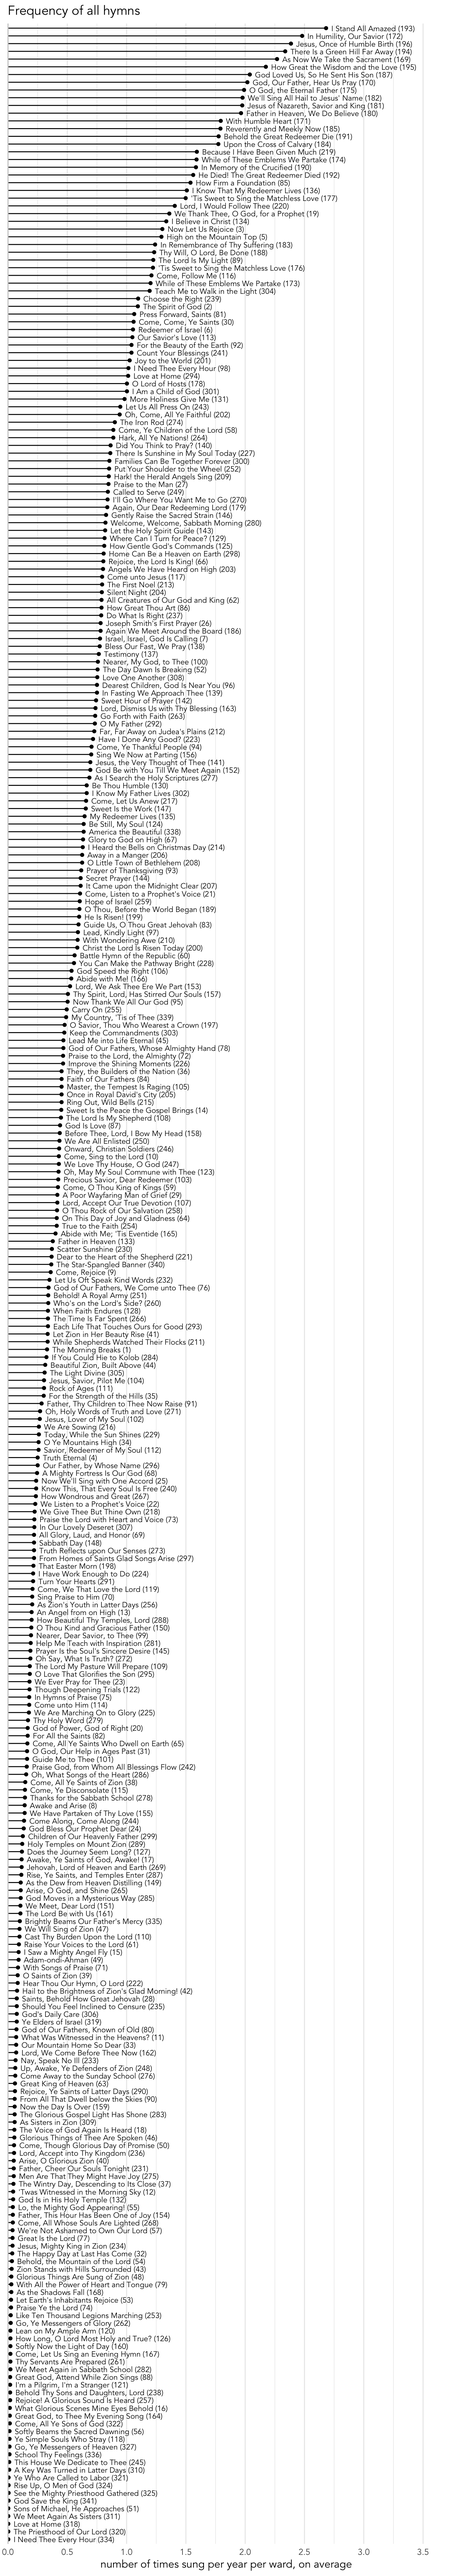
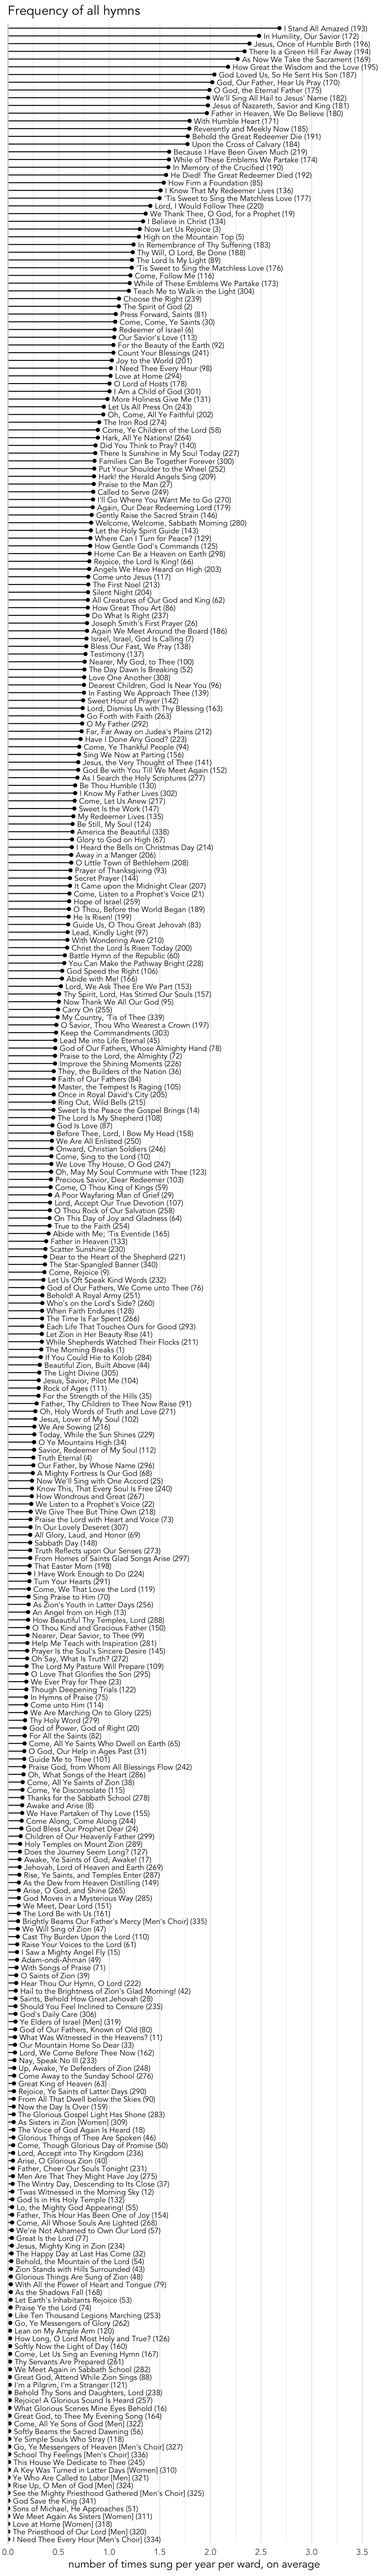
added women, men, and men's chorus to hymn titles

Changed region(s): [[0.0, 0.0, 0.9688, 1.0]]

diff --git a/docs/overview.html b/docs/overview.html
@@ -78,12 +78,12 @@ gtag('config', 'G-SG4E42NZ2F', { 'anonymize_ip': true});
 <meta property="og:image" content="https://hymnstats.joeystanley.com/overview_files/figure-html/unnamed-chunk-3-1.png">
 <meta property="og:site-name" content="LDS Hymn Stats">
 <meta property="og:image:height" content="7680">
-<meta property="og:image:width" content="1344">
+<meta property="og:image:width" content="1152">
 <meta name="twitter:title" content="LDS Hymn Stats - Overview">
 <meta name="twitter:description" content="">
 <meta name="twitter:image" content="https://hymnstats.joeystanley.com/overview_files/figure-html/unnamed-chunk-3-1.png">
 <meta name="twitter:image-height" content="7680">
-<meta name="twitter:image-width" content="1344">
+<meta name="twitter:image-width" content="1152">
 <meta name="twitter:card" content="summary_large_image">
 </head>
 
@@ -195,6 +195,12 @@ gtag('config', 'G-SG4E42NZ2F', { 'anonymize_ip': true});
     </div>
   </div>
   
+    <div>
+    <div class="quarto-title-meta-heading">Modified</div>
+    <div class="quarto-title-meta-contents">
+      <p class="date-modified">October 29, 2023</p>
+    </div>
+  </div>
     
   </div>
   
@@ -214,7 +220,7 @@ gtag('config', 'G-SG4E42NZ2F', { 'anonymize_ip': true});
 <colgroup>
 <col style="width: 4%">
 <col style="width: 3%">
-<col style="width: 38%">
+<col style="width: 39%">
 <col style="width: 8%">
 <col style="width: 10%">
 <col style="width: 11%">
@@ -2687,7 +2693,7 @@ gtag('config', 'G-SG4E42NZ2F', { 'anonymize_ip': true});
 <tr class="even">
 <td style="text-align: right;">246</td>
 <td style="text-align: right;">335</td>
-<td style="text-align: left;">Brightly Beams Our Father’s Mercy</td>
+<td style="text-align: left;">Brightly Beams Our Father’s Mercy [Men’s Choir]</td>
 <td style="text-align: right;">39</td>
 <td style="text-align: right;">0.100</td>
 <td style="text-align: right;">482.308</td>
@@ -2817,7 +2823,7 @@ gtag('config', 'G-SG4E42NZ2F', { 'anonymize_ip': true});
 <tr class="odd">
 <td style="text-align: right;">256</td>
 <td style="text-align: right;">319</td>
-<td style="text-align: left;">Ye Elders of Israel</td>
+<td style="text-align: left;">Ye Elders of Israel [Men]</td>
 <td style="text-align: right;">29</td>
 <td style="text-align: right;">0.074</td>
 <td style="text-align: right;">648.621</td>
@@ -2947,7 +2953,7 @@ gtag('config', 'G-SG4E42NZ2F', { 'anonymize_ip': true});
 <tr class="even">
 <td style="text-align: right;">269</td>
 <td style="text-align: right;">309</td>
-<td style="text-align: left;">As Sisters in Zion</td>
+<td style="text-align: left;">As Sisters in Zion [Women]</td>
 <td style="text-align: right;">22</td>
 <td style="text-align: right;">0.056</td>
 <td style="text-align: right;">855.000</td>
@@ -3337,7 +3343,7 @@ gtag('config', 'G-SG4E42NZ2F', { 'anonymize_ip': true});
 <tr class="odd">
 <td style="text-align: right;">309</td>
 <td style="text-align: right;">322</td>
-<td style="text-align: left;">Come, All Ye Sons of God</td>
+<td style="text-align: left;">Come, All Ye Sons of God [Men]</td>
 <td style="text-align: right;">6</td>
 <td style="text-align: right;">0.015</td>
 <td style="text-align: right;">3135.000</td>
@@ -3367,7 +3373,7 @@ gtag('config', 'G-SG4E42NZ2F', { 'anonymize_ip': true});
 <tr class="even">
 <td style="text-align: right;">312</td>
 <td style="text-align: right;">327</td>
-<td style="text-align: left;">Go, Ye Messengers of Heaven</td>
+<td style="text-align: left;">Go, Ye Messengers of Heaven [Men’s Choir]</td>
 <td style="text-align: right;">5</td>
 <td style="text-align: right;">0.013</td>
 <td style="text-align: right;">3762.000</td>
@@ -3377,7 +3383,7 @@ gtag('config', 'G-SG4E42NZ2F', { 'anonymize_ip': true});
 <tr class="odd">
 <td style="text-align: right;">312</td>
 <td style="text-align: right;">336</td>
-<td style="text-align: left;">School Thy Feelings</td>
+<td style="text-align: left;">School Thy Feelings [Men’s Choir]</td>
 <td style="text-align: right;">5</td>
 <td style="text-align: right;">0.013</td>
 <td style="text-align: right;">3762.000</td>
@@ -3397,7 +3403,7 @@ gtag('config', 'G-SG4E42NZ2F', { 'anonymize_ip': true});
 <tr class="odd">
 <td style="text-align: right;">316</td>
 <td style="text-align: right;">310</td>
-<td style="text-align: left;">A Key Was Turned in Latter Days</td>
+<td style="text-align: left;">A Key Was Turned in Latter Days [Women]</td>
 <td style="text-align: right;">4</td>
 <td style="text-align: right;">0.010</td>
 <td style="text-align: right;">4702.500</td>
@@ -3407,7 +3413,7 @@ gtag('config', 'G-SG4E42NZ2F', { 'anonymize_ip': true});
 <tr class="even">
 <td style="text-align: right;">318</td>
 <td style="text-align: right;">321</td>
-<td style="text-align: left;">Ye Who Are Called to Labor</td>
+<td style="text-align: left;">Ye Who Are Called to Labor [Men]</td>
 <td style="text-align: right;">2</td>
 <td style="text-align: right;">0.005</td>
 <td style="text-align: right;">9405.000</td>
@@ -3417,7 +3423,7 @@ gtag('config', 'G-SG4E42NZ2F', { 'anonymize_ip': true});
 <tr class="odd">
 <td style="text-align: right;">318</td>
 <td style="text-align: right;">324</td>
-<td style="text-align: left;">Rise Up, O Men of God</td>
+<td style="text-align: left;">Rise Up, O Men of God [Men]</td>
 <td style="text-align: right;">2</td>
 <td style="text-align: right;">0.005</td>
 <td style="text-align: right;">9405.000</td>
@@ -3427,7 +3433,7 @@ gtag('config', 'G-SG4E42NZ2F', { 'anonymize_ip': true});
 <tr class="even">
 <td style="text-align: right;">318</td>
 <td style="text-align: right;">325</td>
-<td style="text-align: left;">See the Mighty Priesthood Gathered</td>
+<td style="text-align: left;">See the Mighty Priesthood Gathered [Men’s Choir]</td>
 <td style="text-align: right;">2</td>
 <td style="text-align: right;">0.005</td>
 <td style="text-align: right;">9405.000</td>
@@ -3457,7 +3463,7 @@ gtag('config', 'G-SG4E42NZ2F', { 'anonymize_ip': true});
 <tr class="odd">
 <td style="text-align: right;">322</td>
 <td style="text-align: right;">311</td>
-<td style="text-align: left;">We Meet Again As Sisters</td>
+<td style="text-align: left;">We Meet Again As Sisters [Women]</td>
 <td style="text-align: right;">1</td>
 <td style="text-align: right;">0.003</td>
 <td style="text-align: right;">18810.000</td>
@@ -3467,7 +3473,7 @@ gtag('config', 'G-SG4E42NZ2F', { 'anonymize_ip': true});
 <tr class="even">
 <td style="text-align: right;">322</td>
 <td style="text-align: right;">318</td>
-<td style="text-align: left;">Love at Home</td>
+<td style="text-align: left;">Love at Home [Women]</td>
 <td style="text-align: right;">1</td>
 <td style="text-align: right;">0.003</td>
 <td style="text-align: right;">18810.000</td>
@@ -3477,7 +3483,7 @@ gtag('config', 'G-SG4E42NZ2F', { 'anonymize_ip': true});
 <tr class="odd">
 <td style="text-align: right;">322</td>
 <td style="text-align: right;">320</td>
-<td style="text-align: left;">The Priesthood of Our Lord</td>
+<td style="text-align: left;">The Priesthood of Our Lord [Men]</td>
 <td style="text-align: right;">1</td>
 <td style="text-align: right;">0.003</td>
 <td style="text-align: right;">18810.000</td>
@@ -3487,7 +3493,7 @@ gtag('config', 'G-SG4E42NZ2F', { 'anonymize_ip': true});
 <tr class="even">
 <td style="text-align: right;">322</td>
 <td style="text-align: right;">334</td>
-<td style="text-align: left;">I Need Thee Every Hour</td>
+<td style="text-align: left;">I Need Thee Every Hour [Men’s Choir]</td>
 <td style="text-align: right;">1</td>
 <td style="text-align: right;">0.003</td>
 <td style="text-align: right;">18810.000</td>
@@ -3497,7 +3503,7 @@ gtag('config', 'G-SG4E42NZ2F', { 'anonymize_ip': true});
 <tr class="odd">
 <td style="text-align: right;">327</td>
 <td style="text-align: right;">312</td>
-<td style="text-align: left;">We Ever Pray for Thee</td>
+<td style="text-align: left;">We Ever Pray for Thee [Women]</td>
 <td style="text-align: right;">NA</td>
 <td style="text-align: right;">NA</td>
 <td style="text-align: right;">NA</td>
@@ -3507,7 +3513,7 @@ gtag('config', 'G-SG4E42NZ2F', { 'anonymize_ip': true});
 <tr class="even">
 <td style="text-align: right;">327</td>
 <td style="text-align: right;">313</td>
-<td style="text-align: left;">God Is Love</td>
+<td style="text-align: left;">God Is Love [Women]</td>
 <td style="text-align: right;">NA</td>
 <td style="text-align: right;">NA</td>
 <td style="text-align: right;">NA</td>
@@ -3517,7 +3523,7 @@ gtag('config', 'G-SG4E42NZ2F', { 'anonymize_ip': true});
 <tr class="odd">
 <td style="text-align: right;">327</td>
 <td style="text-align: right;">314</td>
-<td style="text-align: left;">How Gentle God’s Commands</td>
+<td style="text-align: left;">How Gentle God’s Commands [Women]</td>
 <td style="text-align: right;">NA</td>
 <td style="text-align: right;">NA</td>
 <td style="text-align: right;">NA</td>
@@ -3527,7 +3533,7 @@ gtag('config', 'G-SG4E42NZ2F', { 'anonymize_ip': true});
 <tr class="even">
 <td style="text-align: right;">327</td>
 <td style="text-align: right;">315</td>
-<td style="text-align: left;">Jesus, the Very Thought of Thee</td>
+<td style="text-align: left;">Jesus, the Very Thought of Thee [Women]</td>
 <td style="text-align: right;">NA</td>
 <td style="text-align: right;">NA</td>
 <td style="text-align: right;">NA</td>
@@ -3537,7 +3543,7 @@ gtag('config', 'G-SG4E42NZ2F', { 'anonymize_ip': true});
 <tr class="odd">
 <td style="text-align: right;">327</td>
 <td style="text-align: right;">316</td>
-<td style="text-align: left;">The Lord Is My Shepherd</td>
+<td style="text-align: left;">The Lord Is My Shepherd [Women]</td>
 <td style="text-align: right;">NA</td>
 <td style="text-align: right;">NA</td>
 <td style="text-align: right;">NA</td>
@@ -3547,7 +3553,7 @@ gtag('config', 'G-SG4E42NZ2F', { 'anonymize_ip': true});
 <tr class="even">
 <td style="text-align: right;">327</td>
 <td style="text-align: right;">317</td>
-<td style="text-align: left;">Sweet Is the Work</td>
+<td style="text-align: left;">Sweet Is the Work [Women]</td>
 <td style="text-align: right;">NA</td>
 <td style="text-align: right;">NA</td>
 <td style="text-align: right;">NA</td>
@@ -3557,7 +3563,7 @@ gtag('config', 'G-SG4E42NZ2F', { 'anonymize_ip': true});
 <tr class="odd">
 <td style="text-align: right;">327</td>
 <td style="text-align: right;">323</td>
-<td style="text-align: left;">Rise Up, O Men of God</td>
+<td style="text-align: left;">Rise Up, O Men of God [Men’s Choir]</td>
 <td style="text-align: right;">NA</td>
 <td style="text-align: right;">NA</td>
 <td style="text-align: right;">NA</td>
@@ -3567,7 +3573,7 @@ gtag('config', 'G-SG4E42NZ2F', { 'anonymize_ip': true});
 <tr class="even">
 <td style="text-align: right;">327</td>
 <td style="text-align: right;">326</td>
-<td style="text-align: left;">Come, Come, Ye Saints</td>
+<td style="text-align: left;">Come, Come, Ye Saints [Men’s Choir]</td>
 <td style="text-align: right;">NA</td>
 <td style="text-align: right;">NA</td>
 <td style="text-align: right;">NA</td>
@@ -3577,7 +3583,7 @@ gtag('config', 'G-SG4E42NZ2F', { 'anonymize_ip': true});
 <tr class="odd">
 <td style="text-align: right;">327</td>
 <td style="text-align: right;">328</td>
-<td style="text-align: left;">An Angel from on High</td>
+<td style="text-align: left;">An Angel from on High [Men’s Choir]</td>
 <td style="text-align: right;">NA</td>
 <td style="text-align: right;">NA</td>
 <td style="text-align: right;">NA</td>
@@ -3587,7 +3593,7 @@ gtag('config', 'G-SG4E42NZ2F', { 'anonymize_ip': true});
 <tr class="even">
 <td style="text-align: right;">327</td>
 <td style="text-align: right;">329</td>
-<td style="text-align: left;">Thy Servants Are Prepared</td>
+<td style="text-align: left;">Thy Servants Are Prepared [Men’s Choir]</td>
 <td style="text-align: right;">NA</td>
 <td style="text-align: right;">NA</td>
 <td style="text-align: right;">NA</td>
@@ -3597,7 +3603,7 @@ gtag('config', 'G-SG4E42NZ2F', { 'anonymize_ip': true});
 <tr class="odd">
 <td style="text-align: right;">327</td>
 <td style="text-align: right;">330</td>
-<td style="text-align: left;">See, the Mighty Angel Flying</td>
+<td style="text-align: left;">See, the Mighty Angel Flying [Men’s Choir]</td>
 <td style="text-align: right;">NA</td>
 <td style="text-align: right;">NA</td>
 <td style="text-align: right;">NA</td>
@@ -3607,7 +3613,7 @@ gtag('config', 'G-SG4E42NZ2F', { 'anonymize_ip': true});
 <tr class="even">
 <td style="text-align: right;">327</td>
 <td style="text-align: right;">331</td>
-<td style="text-align: left;">Oh Say, What Is Truth?</td>
+<td style="text-align: left;">Oh Say, What Is Truth? [Men’s Choir]</td>
 <td style="text-align: right;">NA</td>
 <td style="text-align: right;">NA</td>
 <td style="text-align: right;">NA</td>
@@ -3617,7 +3623,7 @@ gtag('config', 'G-SG4E42NZ2F', { 'anonymize_ip': true});
 <tr class="odd">
 <td style="text-align: right;">327</td>
 <td style="text-align: right;">332</td>
-<td style="text-align: left;">Come, O Thou King of Kings</td>
+<td style="text-align: left;">Come, O Thou King of Kings [Men’s Choir]</td>
 <td style="text-align: right;">NA</td>
 <td style="text-align: right;">NA</td>
 <td style="text-align: right;">NA</td>
@@ -3627,7 +3633,7 @@ gtag('config', 'G-SG4E42NZ2F', { 'anonymize_ip': true});
 <tr class="even">
 <td style="text-align: right;">327</td>
 <td style="text-align: right;">333</td>
-<td style="text-align: left;">High on the Mountain Top</td>
+<td style="text-align: left;">High on the Mountain Top [Men’s Choir]</td>
 <td style="text-align: right;">NA</td>
 <td style="text-align: right;">NA</td>
 <td style="text-align: right;">NA</td>
@@ -3637,7 +3643,7 @@ gtag('config', 'G-SG4E42NZ2F', { 'anonymize_ip': true});
 <tr class="odd">
 <td style="text-align: right;">327</td>
 <td style="text-align: right;">337</td>
-<td style="text-align: left;">O Home Beloved</td>
+<td style="text-align: left;">O Home Beloved [Men’s Choir]</td>
 <td style="text-align: right;">NA</td>
 <td style="text-align: right;">NA</td>
 <td style="text-align: right;">NA</td>
@@ -3651,7 +3657,7 @@ gtag('config', 'G-SG4E42NZ2F', { 'anonymize_ip': true});
 <p>Here is the same information, but as a plot.</p>
 <div class="cell">
 <div class="cell-output-display">
-<p><img src="overview_files/figure-html/unnamed-chunk-3-1.png" class="img-fluid" width="672"></p>
+<p><img src="overview_files/figure-html/unnamed-chunk-3-1.png" class="img-fluid" width="576"></p>
 </div>
 </div>
 
